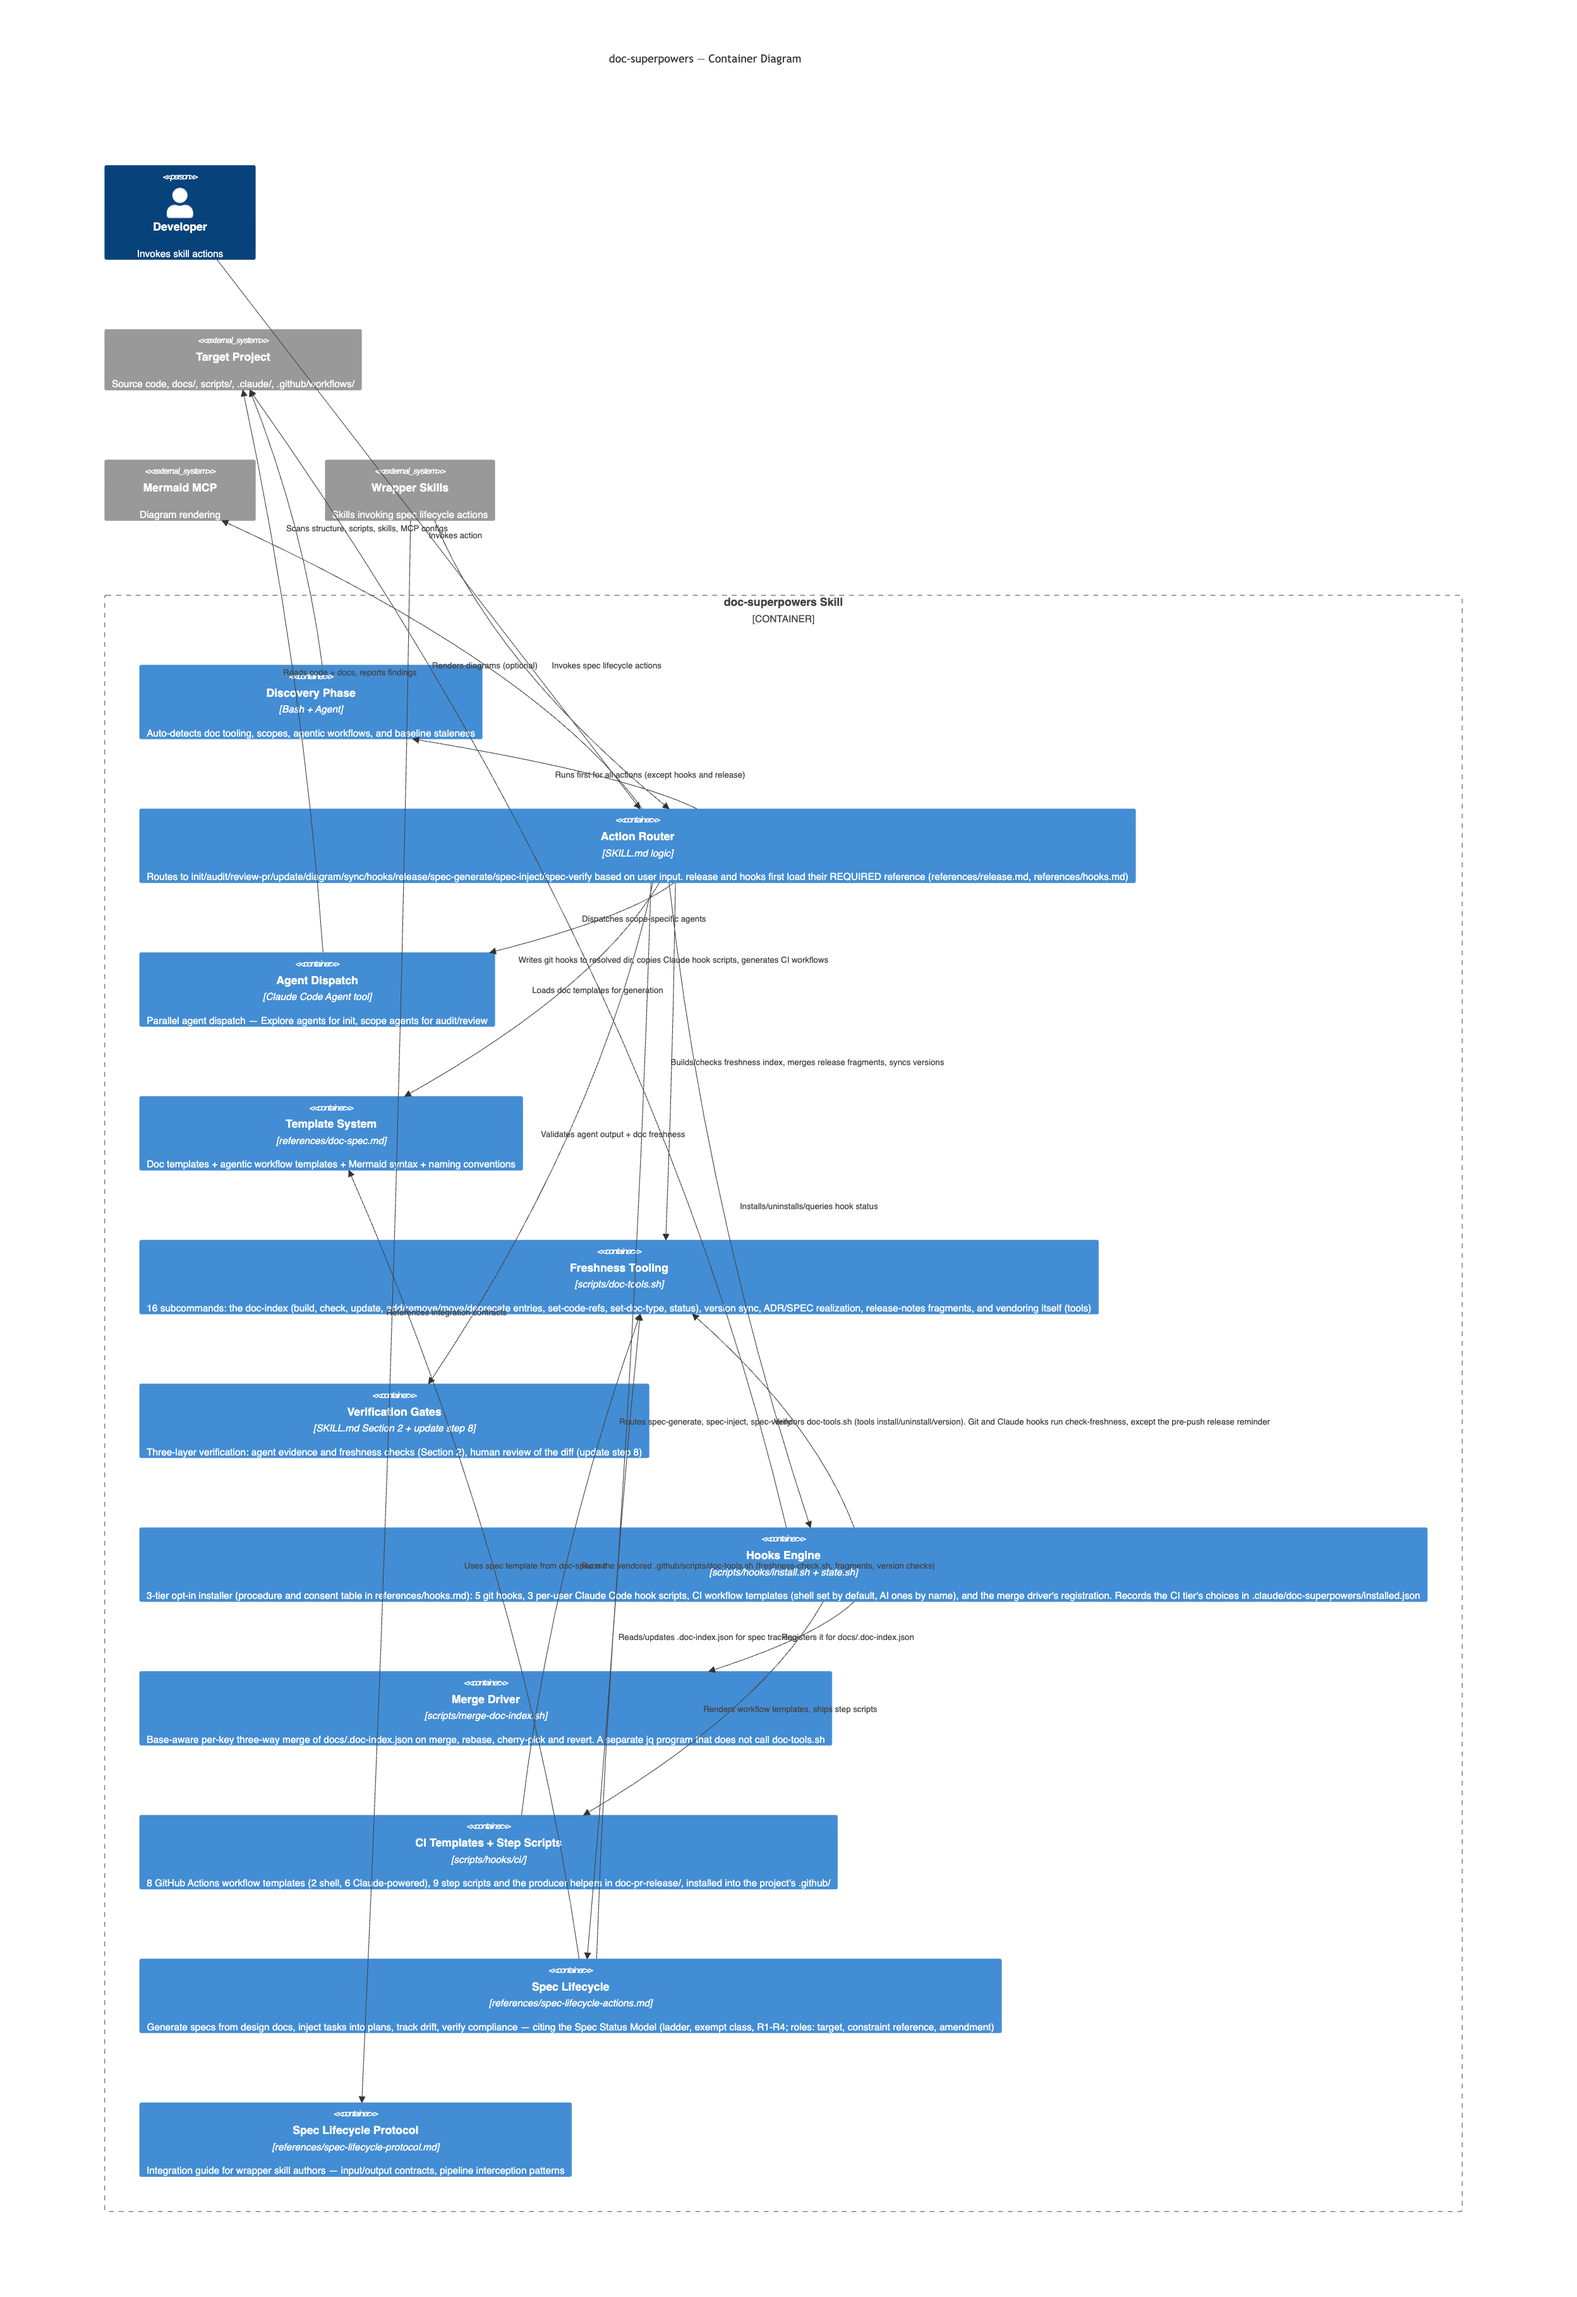
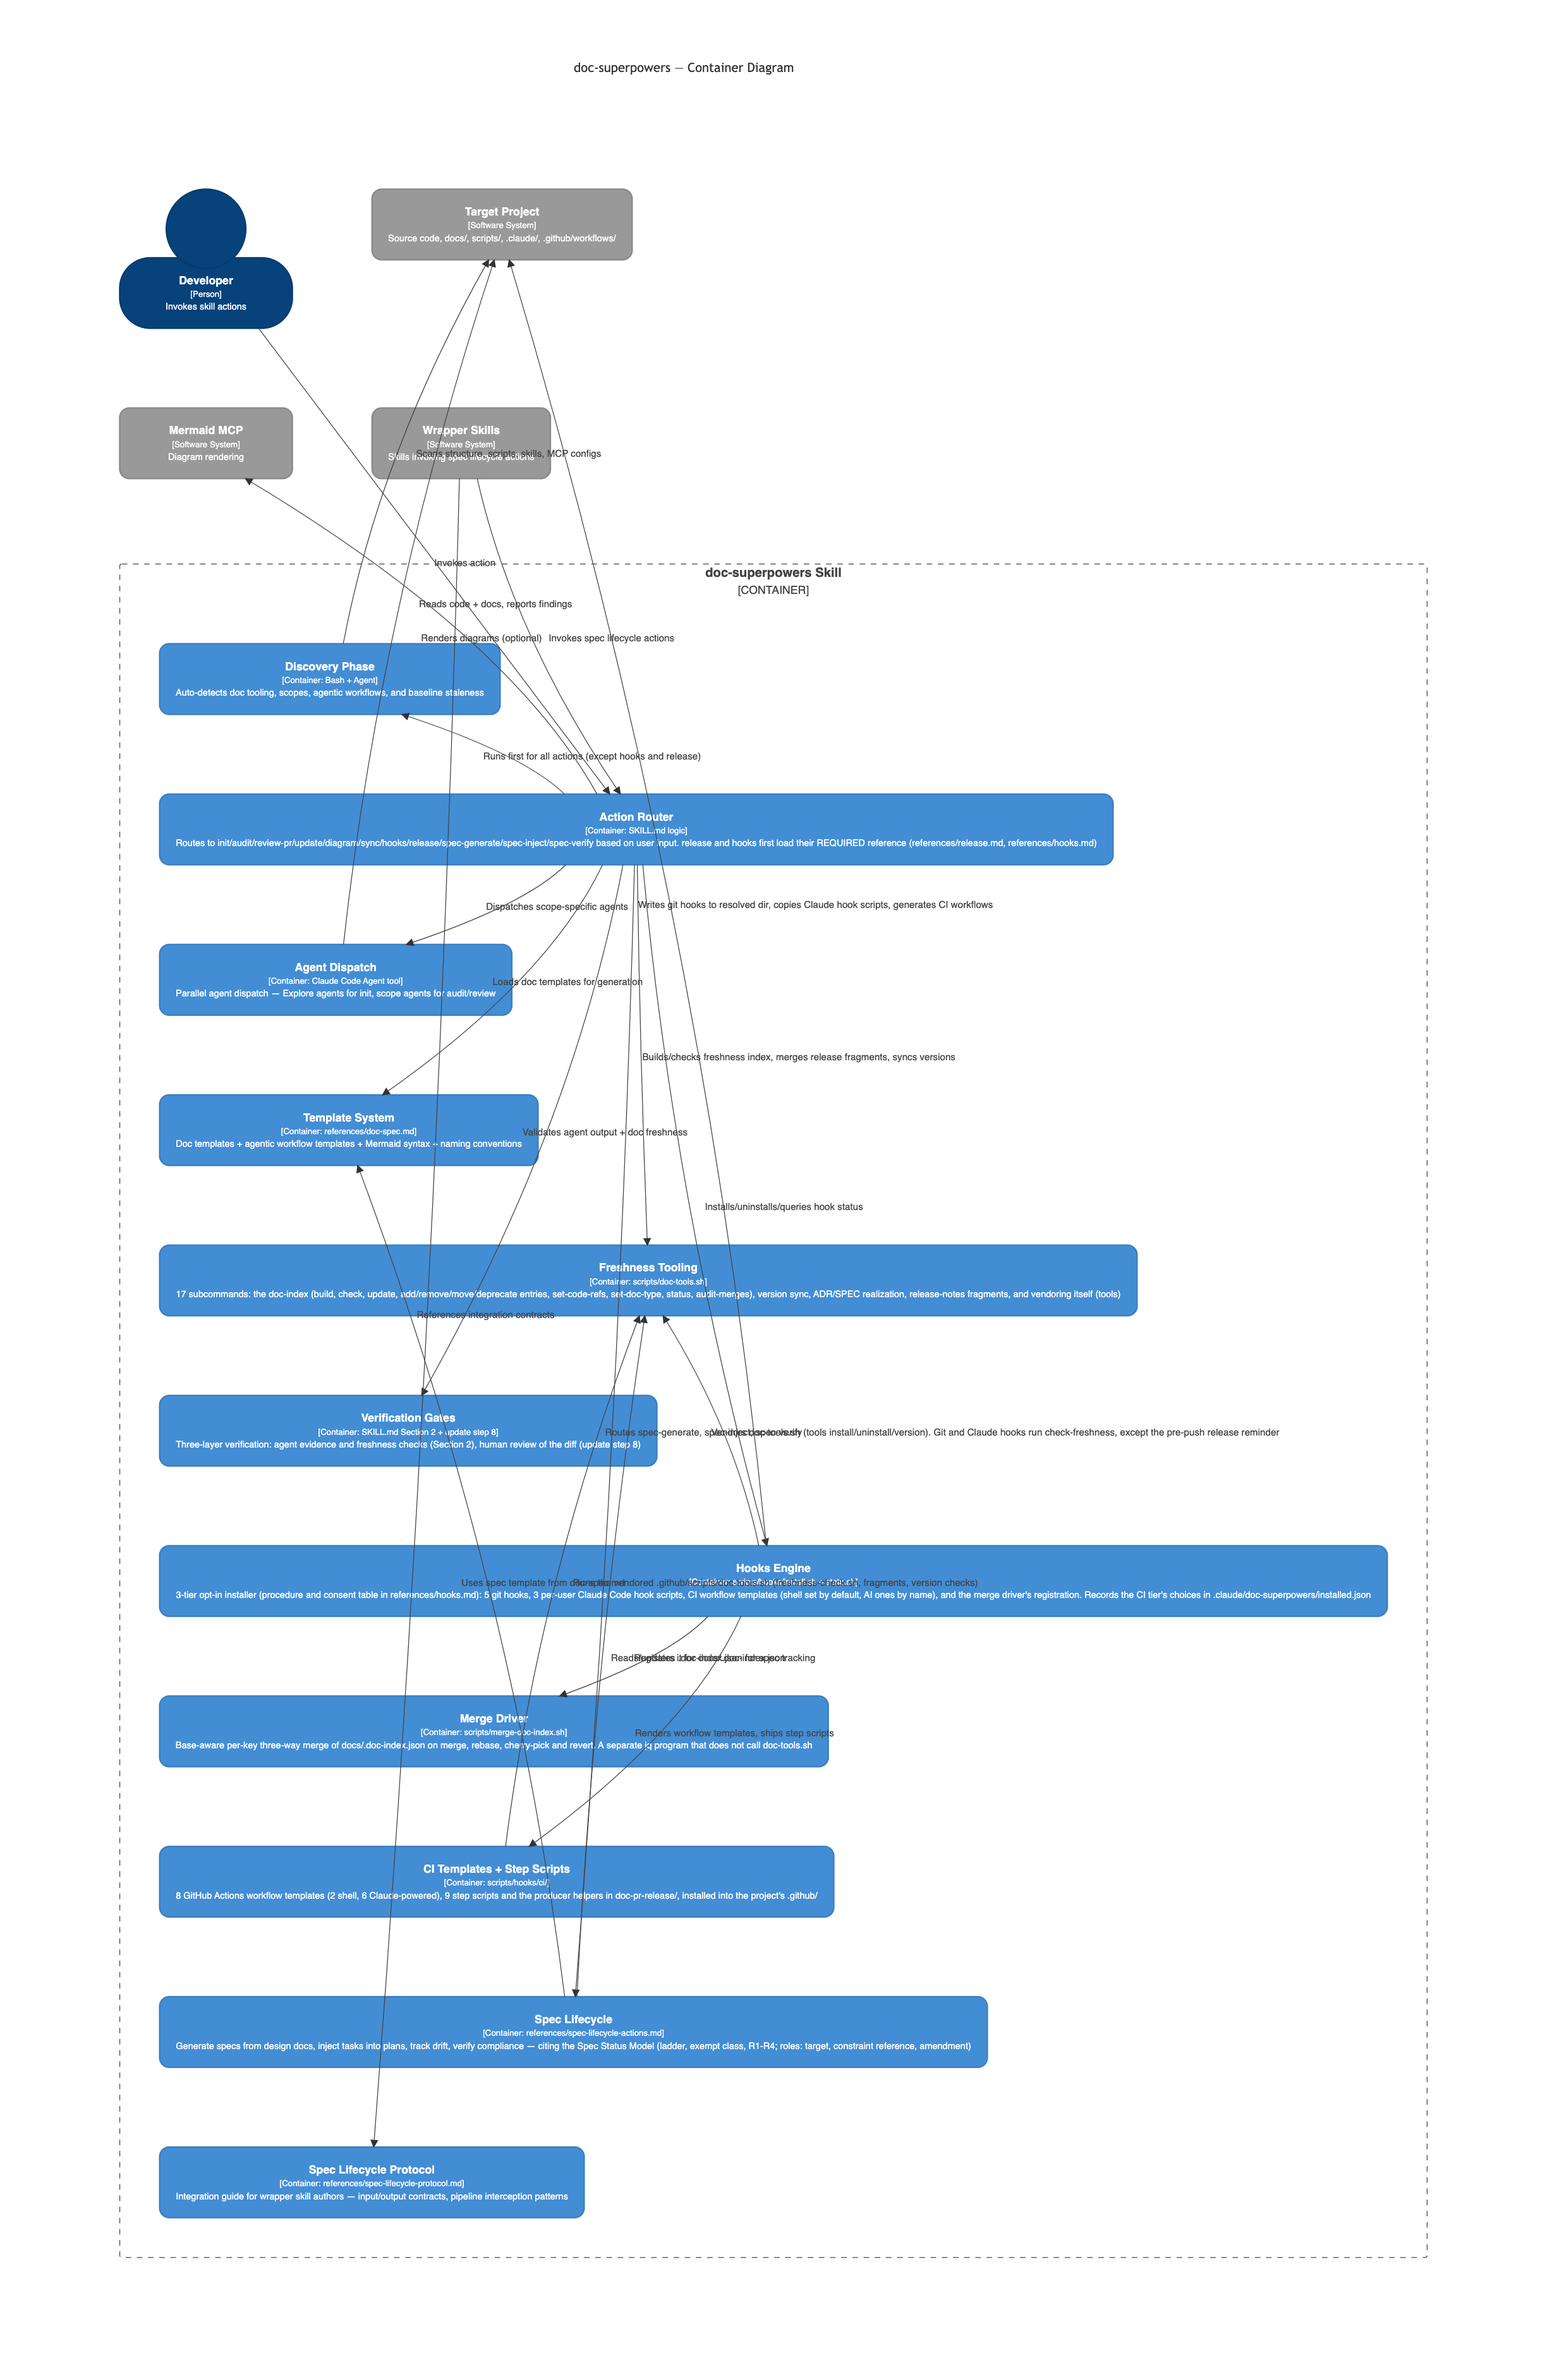
docs(diagrams): the container diagram names the 17th subcommand
Re-rendered c4-container.png for the Freshness Tooling label (17
subcommands, audit-merges) with mmdc 11.6.0 and headless system Chrome
(c4.wrap: false, width 1248, scale 2, which reproduces the committed
layout). RELEASE-NOTES v3.1.0 says so instead of deferring it.

diff --git a/docs/architecture/system-overview.md b/docs/architecture/system-overview.md
@@ -63,7 +63,7 @@ C4Container
     Container(router, "Action Router", "SKILL.md logic", "Routes to init/audit/review-pr/update/diagram/sync/hooks/release/spec-generate/spec-inject/spec-verify based on user input. release and hooks first load their REQUIRED reference (references/release.md, references/hooks.md)")
     Container(agents, "Agent Dispatch", "Claude Code Agent tool", "Parallel agent dispatch — Explore agents for init, scope agents for audit/review")
     Container(templates, "Template System", "references/doc-spec.md", "Doc templates + agentic workflow templates + Mermaid syntax + naming conventions")
-    Container(doctools, "Freshness Tooling", "scripts/doc-tools.sh", "16 subcommands: the doc-index (build, check, update, add/remove/move/deprecate entries, set-code-refs, set-doc-type, status), version sync, ADR/SPEC realization, release-notes fragments, and vendoring itself (tools)")
+    Container(doctools, "Freshness Tooling", "scripts/doc-tools.sh", "17 subcommands: the doc-index (build, check, update, add/remove/move/deprecate entries, set-code-refs, set-doc-type, status, audit-merges), version sync, ADR/SPEC realization, release-notes fragments, and vendoring itself (tools)")
     Container(verification, "Verification Gates", "SKILL.md Section 2 + update step 8", "Three-layer verification: agent evidence and freshness checks (Section 2), human review of the diff (update step 8)")
     Container(hooks, "Hooks Engine", "scripts/hooks/install.sh + state.sh", "3-tier opt-in installer (procedure and consent table in references/hooks.md): 5 git hooks, 3 per-user Claude Code hook scripts, CI workflow templates (shell set by default, AI ones by name), and the merge driver's registration. Records the CI tier's choices in .claude/doc-superpowers/installed.json")
     Container(mergedriver, "Merge Driver", "scripts/merge-doc-index.sh", "Base-aware per-key three-way merge of docs/.doc-index.json on merge, rebase, cherry-pick and revert. A separate jq program that does not call doc-tools.sh")

diff --git a/RELEASE-NOTES.md b/RELEASE-NOTES.md
@@ -23,7 +23,7 @@ This release adds two index operations that consumer repositories adopting v3 ha
 ### Documentation
 - `references/doc-spec.md`: the **Renames** paragraph and the `code_oids` schema row describe the repoint, and a new **Auditing merges** paragraph covers `audit-merges`.
 - `skills/doc-superpowers/SKILL.md` (tool table), `docs/conventions.md` (Read/Write Separation and the archive model), `docs/codebase-guide.md`, `docs/workflows/doc-superpowers.md`, `docs/architecture/system-overview.md` and `CLAUDE.md` name the new behaviour and the 17th subcommand.
-- The C4 container diagram's label still reads "16 subcommands": regenerating its PNG is left to the next `diagram` pass.
+- The C4 container diagram (`docs/architecture/diagrams/c4-container.png`) is re-rendered for its new label (mmdc 11.6.0, headless system Chrome, `c4.wrap: false`, width 1248, scale 2).
 
 ### Other
 - `scripts/test-doc-tools.sh` gains 27 assertions (1290 → 1317). They cover the repoint (verdict kept after a pure rename, no duplicate, the new path's own id wins, the chain, a pre-v3 entry) and `audit-merges` (a keep-ours merge reported with the parent it kept, a clean driver merge, a refusal, the arguments). 24 of the new assertions fail against v3.0.0.
